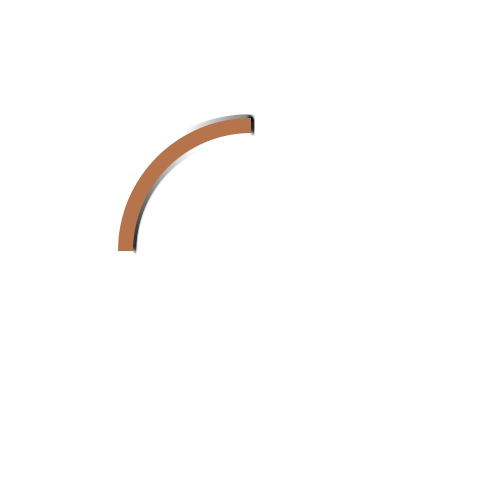
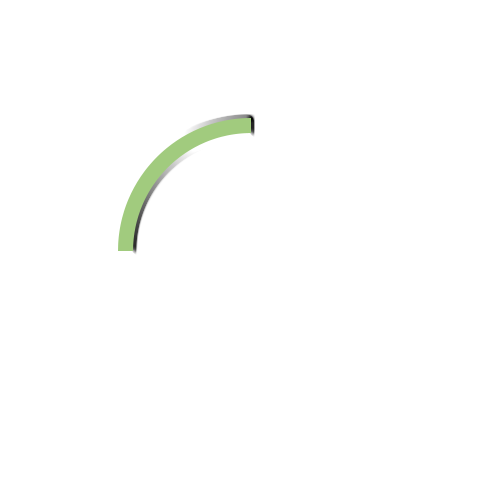
Add files via upload

Changed region(s): [[0.24, 0.24, 0.51, 0.51]]

diff --git a/index.html b/index.html
@@ -26,10 +26,10 @@
 		  <p>0</p>
 	  </div>
 	  
-	  <form class="login" style="display: none;" id="login1">
+	  <form class="login" style="display: none;" id="login">
 		  <div class="top" style="height: 25px;"></div>
 		  	<div class="title">
-				<div class="shape" style="width: 60%;"></div>
+				<div class="shape"></div>
 				<h2>登入</h2>
 				<span>LOGIN</span>
 			</div>
@@ -45,10 +45,10 @@
 		  
 	  </form>
 	  
-	  <form class="login" style="display: none;" id="login2">
+	  <form class="login" style="display: none;" id="register">
 		  <div class="top" style="height: 25px;"></div>
 		  	<div class="title">
-				<div class="shape" style="width: 60%;"></div>
+				<div class="shape"></div>
 				<h2>註冊</h2>
 				<span>REGISTER</span>
 			</div>
@@ -63,7 +63,7 @@
 	  <form class="login2" style="display: none;">
 		  <div class="top" style="height: 50px;"></div>
 		  	<div class="title">
-				<div class="shape" style="width: 50%;"></div>
+				<div class="shape"></div>
 				<h2>活動報名</h2>
 				<span>LOGIN</span>
 			</div>
@@ -100,14 +100,14 @@
 			 <li class="nav-item"> <a class="nav-link" href="#category"><div class="nav-b" data-text="Category"><span>商品分類</span></div></a> </li>
 			 <li class="nav-item"> <a class="nav-link" href="#event"><div class="nav-b" data-text="Event"><span>精彩活動</span></div></a> </li>
 			 <li class="nav-item"> <a class="nav-link" href="#contact"><div class="nav-b" data-text="Contact us"><span>聯絡我們</span></div></a> </li>
-			 <li class="nav-item"> <a class="nav-link" id="login"><div class="nav-b" data-text="Login"><span>會員登入</span></div></a> </li>
+			 <li class="nav-item"> <a class="nav-link" id="nav-login"><div class="nav-b" data-text="Login"><span>會員登入</span></div></a> </li>
 			 <li class="nav-item"> <a class="nav-link cart"><div class="nav-b" data-text="Cart"><span>購物車(0)</span></div></a> </li>
         </ul>
       </div>
     </nav>
 	  
 	  <section class="slide">
-	  	<div class="show"></div>
+	  	<div id="show"></div>
 		  <a href="#mean">
 		  <div class="turn">
 		  	<img src="img/turn/1.png" alt="">
@@ -625,26 +625,26 @@
 			  	<div class="col-md-6 col-sm-12">
 					<div class="col-12">
 						<h2>姓名</h2>
-						<input type="text" placeholder="請填入姓名" class="input-c" required> 
+						<input type="text" placeholder="請填入姓名" required> 
 					</div>
 					<div class="col-12">
 						<h2>電話</h2>
-						<input type="tel" placeholder="請填入電話" class="input-c" required pattern="[0-9-()]+"> 
+						<input type="tel" placeholder="請填入電話" required pattern="[0-9-()]+"> 
 					</div>
 					<div class="col-12">
 						<h2>電子郵件</h2>
-						<input type="email" placeholder="請填入電子郵件" class="input-c" required> 
+						<input type="email" placeholder="請填入電子郵件" required> 
 					</div>
 					<div class="col-12">
 						<h2>想說的話</h2>
-						<input type="text" placeholder="請填入想說的話" class="input-c" required> 
+						<input type="text" placeholder="請填入想說的話" required> 
 					</div>
 				</div>
 				<div class="col-md-6 col-sm-12">
 					<div class="col-12">
 						<h2>有獎徵答<br>將在12/31中午12點在FB粉絲團直播抽出1位幸運兒<br>獎品為日本來回機票一張</h2>
 						<h2>我們的網頁名稱是什麼</h2>
-						<select class="input-c">
+						<select>
 							<option>台灣產業新勢力</option>
 							<option>日本產業新勢力</option>
 							<option>香港產業新勢力</option>
@@ -652,7 +652,7 @@
 					</div>
 					<div class="col-12">
 						<h2>我們的目標是是什麼</h2>
-						<select class="input-c">
+						<select>
 							<option>推廣台灣美食</option>
 							<option>推廣台灣在地產業</option>
 							<option>推廣台灣觀光</option>
@@ -660,7 +660,7 @@
 					</div>
 					<div class="col-12">
 						<h2>我們在哪一年創辦此網頁</h2>
-						<select class="input-c">
+						<select>
 							<option>2011</option>
 							<option>2016</option>
 							<option>2002</option>

diff --git a/css/index.css b/css/index.css
@@ -59,7 +59,7 @@ a,a:hover{
 	position: relative;
 }
 
-.show{
+#show{
   width: 100vw;
   height: 100vh;
   background-repeat: no-repeat;
@@ -135,7 +135,7 @@ a,a:hover{
 	letter-spacing: 10px;
 	z-index: 3;
 	position: relative;
-	color: #fff;
+	color: #494845;
 	font-weight: 800;
 }
 
@@ -149,7 +149,7 @@ a,a:hover{
 	top: -10%;
 	left: 50%;
 	transform: translateX(-53%);
-	background: #7dbca9;
+	background: #c1ef99;
 	width: 200px;
 	height: 50px;
 	z-index: 2;
@@ -176,7 +176,7 @@ a,a:hover{
 	height: 100%;
 	top: 0;
 	left: 0;
-	background: #cbbca5;
+	background: #a5a5a5;
 	content: "";
 	transition: 0.5s ease-in-out transform;
 	transform: scaleY(0);
@@ -260,7 +260,7 @@ a,a:hover{
 	width: 100%;
 	color: #Fff;
 	background: #000;
-	border-bottom: 2px orange solid;
+	border-bottom: 2px green solid;
 	text-align: center;
 	font-size: 22px;
 }
@@ -366,12 +366,12 @@ a,a:hover{
 
 .btn-s{
 	width: 100%;
-	background: #ff9b6d;
+	background: #f49589;
 	text-align: center;
 	border-radius: 5px;
 	border: 1px solid white;
 	padding: 5px;
-	color: #Fff;
+	color: #494845;
 	cursor: pointer;
 	transition: 0.5s;
 }
@@ -488,12 +488,12 @@ a,a:hover{
 
 .btn-e{
 	width: 100%;
-	background: #ff9b6d;
+	background: #f49589;
 	text-align: center;
 	border-radius: 5px;
 	border: 1px solid white;
 	padding: 5px;
-	color: #Fff;
+	color: #494845;
 	cursor: pointer;
 	transition: 0.5s;
 }
@@ -525,11 +525,11 @@ a,a:hover{
 
 .btn-c{
 	width: 20%;
-	background: #ff9b6d;
+	background: #f49589;
 	text-align: center;
 	border-radius: 7px;
 	position: relative;
-	color: #fff;
+	color: #494845;
 	padding: 5px;
 	left: 50%;
 	border: none;
@@ -582,12 +582,12 @@ a,a:hover{
 
 .btn-f{
 	width: 100%;
-	background: #ff9b6d;
+	background: #f49589;
 	text-align: center;
 	border-radius: 5px;
 	border: 1px solid white;
 	padding: 5px;
-	color: #Fff;
+	color: #494845;
 	cursor: pointer;
 	transition: 0.5s;
 	margin-top: 20px;
@@ -842,6 +842,7 @@ footer p{
 	}
 	.btn-c{
 		margin-bottom: 20px;
+		width: 30%;
 	}
 	nav img{
 		width: 100px;
@@ -860,6 +861,31 @@ footer p{
 	.login{
 		width: 90%;
 		height: 70%;
+	}
+	.login2{
+		padding: 10px;
+	}
+	.login2 input{
+		font-size: 12px;
+	}
+	.turn img{
+		width: 100%;
+		left: 0%;
+	}
+	.box,.box-s{
+		width: 300px;
+		height: 375px;
+		margin: 0 auto;
+	}
+	.box{
+		padding: 70px 40px;
+	}
+	.box h2{
+		font-size: 3em;
+	}
+	.btn-s{
+		width: 300px;
+		margin: 0 auto;
 	}
 }
 

diff --git a/js/index.js b/js/index.js
@@ -80,40 +80,42 @@ $("#item4").click(function(){
 	$(".addcart").removeClass("add-ani")
 })
 
-$("#login1 .btn-l").click(function(){
+$("#login .btn-l").click(function(){
 	alert("目前沒有網路無法登入")
-	$("#login1").fadeOut()
+	$(".login input").val("")
+	$("#login").fadeOut()
 })
 
-$("#login2 .btn-l").click(function(){
+$("#register .btn-l").click(function(){
 	alert("目前沒有網路無法註冊")
-	$("#login2").fadeOut()
+	$(".login input").val("")
+	$("#register").fadeOut()
 })
 
-$("#login2 img").click(function(){
-	$("#login2").fadeOut()
+$("#register img").click(function(){
+	$("#register").fadeOut()
 })
 
 $(".cart").click(function(){
-	$("#login1").fadeIn()
+	$("#login").fadeIn()
 })
 
 $(".cart-i").click(function(){
-	$("#login1").fadeIn()
+	$("#login").fadeIn()
 })
 
-$("#login").click(function(){
-	$("#login1").fadeIn()
+$("#nav-login").click(function(){
+	$("#login").fadeIn()
 })
 
 $(".p1").click(function(){
-	$("#login1").fadeOut()
-	$("#login2").fadeIn()
+	$("#login").fadeOut()
+	$("#register").fadeIn()
 })
 
 $(".p2").click(function(){
 	alert("目前沒有網路請稍後在試")
-	$("#login1").fadeOut()
+	$("#login").fadeOut()
 })
 
 $(".btn-e").click(function(){
@@ -121,7 +123,7 @@ $(".btn-e").click(function(){
 })
 
 $(".login img").click(function(){
-	$("#login1").fadeOut()
+	$("#login").fadeOut()
 })
 
 $(".login2 img").click(function(){
@@ -141,19 +143,20 @@ $(".btn-l2").click(function(){
 	if(!$("#number").val()){
 		return alert("您尚未填寫身分證字號");
 	}
-	$(".login2 inpur").val("")
+	$(".login2 input").val("")
 	alert("資料已送出")
 	$(".login2").fadeOut()
 })
 
-$('#form').submit(function () {
+$('#form').submit(function(){
 	alert("資料已送出，謝謝您的回覆。")
-	$('.input-c').val("");
+	$('#form input').val("");
   	return false;
 });
 
-$('#form2').submit(function () {
+$('#form2').submit(function(){
 	alert("感謝您的訂閱")
+	$('#form2 input').val("");
   	return false;
 });
 
